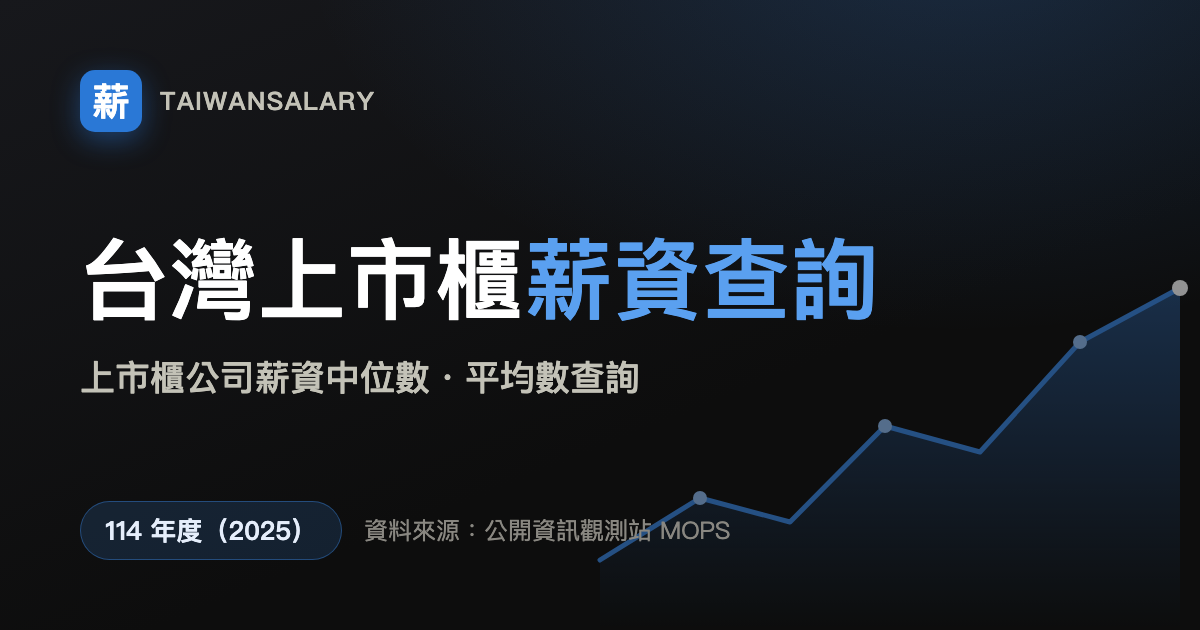
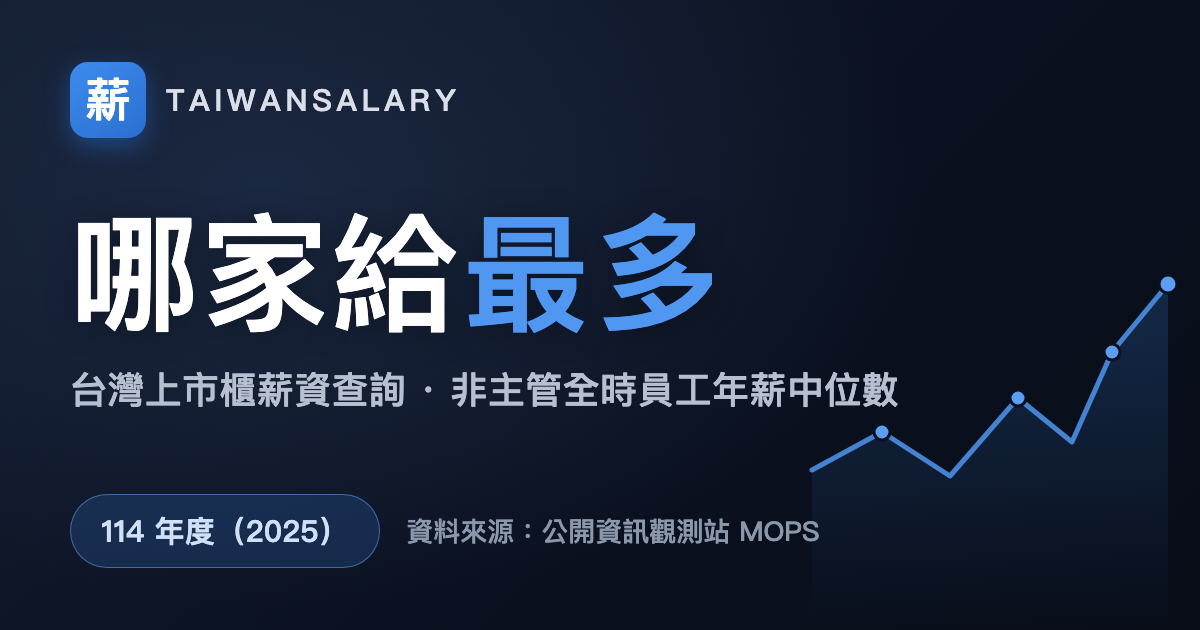
feat: 品牌改名「哪家給最多」+ 自訂網域 salary.bobochen.dev
- 主標改為「哪家給最多」，副標保留「台灣上市櫃薪資查詢」；頁首/頁尾 logo、
  首頁 H1、<title>、og:site_name、JSON-LD（name + alternateName）一致更新
- 網域改為 salary.bobochen.dev（astro.config site；robots/sitemap/canonical/OG URL 自動衍生）
- 重製 OG 分享圖 og-default.png，主視覺換上新 hook「哪家給最多」
- about 頁改寫品牌敘述 + 新增「關於作者」段落
- 排行表新增「排名」欄（client 端依排序/篩選重新編號，無 JS 時 SSR 1..N）
- 資料來源標示由「公開資訊觀測站 t100sb15」簡化為「公開資訊觀測站」

Claude-Session: https://claude.ai/code/session_01GnzuFZdJBG2oiCP5TrgdyC

diff --git a/src/styles/global.css b/src/styles/global.css
@@ -143,13 +143,31 @@ h3 {
   flex-wrap: wrap;
 }
 .site-brand {
-  font-weight: 700;
-  font-size: 1.05rem;
+  display: inline-flex;
+  align-items: baseline;
+  gap: 8px;
   color: var(--text);
   letter-spacing: 0.01em;
 }
+.site-brand-name {
+  font-weight: 700;
+  font-size: 1.05rem;
+}
+.site-brand-sub {
+  font-weight: 500;
+  font-size: 0.82rem;
+  color: var(--text-secondary);
+}
 .site-brand:hover {
   text-decoration: none;
+}
+.site-brand:hover .site-brand-name {
+  color: var(--link);
+}
+@media (max-width: 480px) {
+  .site-brand-sub {
+    display: none;
+  }
 }
 .site-nav {
   display: flex;
@@ -168,19 +186,60 @@ h3 {
 .site-footer {
   border-top: 1px solid var(--border);
   margin-top: 48px;
-  padding-block: 24px;
+  padding-block: 28px;
+  background: var(--surface);
   color: var(--text-secondary);
   font-size: 0.85rem;
 }
 .site-footer .wrap {
   display: flex;
-  flex-wrap: wrap;
-  gap: 6px 14px;
-  align-items: baseline;
+  flex-direction: column;
+  gap: 16px;
 }
-.site-footer a {
+.footer-top {
+  display: flex;
+  flex-wrap: wrap;
+  align-items: baseline;
+  justify-content: space-between;
+  gap: 12px 24px;
+}
+.footer-brand {
+  display: inline-flex;
+  align-items: baseline;
+  gap: 8px;
+}
+.footer-brand-name {
+  color: var(--text);
+  font-weight: 700;
+  font-size: 1rem;
+}
+.footer-brand-sub {
+  font-size: 0.8rem;
+}
+.footer-nav {
+  display: flex;
+  flex-wrap: wrap;
+  gap: 8px 20px;
+}
+.footer-nav a {
+  color: var(--text-secondary);
+}
+.footer-nav a:hover {
+  color: var(--link);
+}
+.footer-meta {
+  display: flex;
+  flex-wrap: wrap;
+  gap: 4px 14px;
+  padding-top: 14px;
+  border-top: 1px solid var(--border);
+}
+.footer-meta a {
   color: var(--text-secondary);
   text-decoration: underline;
+}
+.footer-meta a:hover {
+  color: var(--link);
 }
 
 @media (max-width: 640px) {

diff --git a/src/scripts/table-enhance.ts b/src/scripts/table-enhance.ts
@@ -97,6 +97,19 @@ function init(): void {
     }
   }
 
+  // The first cell of every row is the 排名 column: a positional index, not data.
+  // After any sort or filter it must reflect the row's live position, so we walk the
+  // tbody in DOM order and renumber the visible rows 1..N. (Server-rendered 1..N in
+  // median-desc order is the no-JS fallback.)
+  function renumber(): void {
+    let n = 0;
+    for (const tr of Array.from(tbody.rows)) {
+      if (tr === emptyRow || tr.hidden) continue;
+      const cell = tr.cells[0];
+      if (cell) cell.textContent = String(++n);
+    }
+  }
+
   function applyFilter(): void {
     const q = normalize(state.q.trim());
     let shown = 0;
@@ -110,10 +123,13 @@ function init(): void {
     }
     if (countEl) countEl.textContent = shown.toLocaleString('en-US');
     if (emptyRow) emptyRow.hidden = shown !== 0;
+    renumber();
   }
 
   function setAria(): void {
     headEls.forEach((th, i) => {
+      // The 排名 header carries no data-key and isn't sortable — leave it untouched.
+      if (!colKeys[i]) return;
       th.setAttribute(
         'aria-sort',
         colKeys[i] !== state.sort ? 'none' : state.dir === 'asc' ? 'ascending' : 'descending',
@@ -143,6 +159,7 @@ function init(): void {
     tbody.appendChild(frag);
     if (emptyRow) tbody.appendChild(emptyRow); // keep the empty-state row last
     setAria();
+    renumber();
   }
 
   function syncURL(): void {

diff --git a/src/lib/seo.ts b/src/lib/seo.ts
@@ -73,13 +73,14 @@ export function faqPage(faqs: Faq[]): JsonLd {
  */
 export function website(
   site: URL | undefined,
-  opts: { name: string; description: string },
+  opts: { name: string; alternateName?: string; description: string },
 ): JsonLd {
   const home = abs(site, '/');
   return {
     '@context': 'https://schema.org',
     '@type': 'WebSite',
     name: opts.name,
+    ...(opts.alternateName ? { alternateName: opts.alternateName } : {}),
     url: home,
     description: opts.description,
     inLanguage: 'zh-Hant',

diff --git a/README.md b/README.md
@@ -1,10 +1,10 @@
-# 台灣上市櫃薪資查詢(TaiwanSalary)
+# 哪家給最多｜台灣上市櫃薪資查詢(TaiwanSalary)
 
 查詢台灣 **1,847 家上市櫃公司**「非擔任主管職務之全時員工」年薪 — 中位數、平均數、調薪幅度、男女薪資 — 一頁搜尋,免下拉選單。
 
 > 官方的[公開資訊觀測站查詢頁](https://mopsov.twse.com.tw/mops/web/t100sb15)要逐一選擇年度/市場別/產業別才能看到零碎結果;本站把 **民國 108–114 年(2019–2025)** 全部資料整理成好查、好比較的靜態網站。
 
-🌐 線上網址:`https://taiwansalary.pages.dev`(部署後更新)
+🌐 線上網址:`https://salary.bobochen.dev`
 
 ## 功能特色
 
